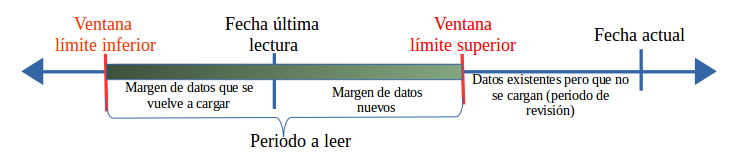
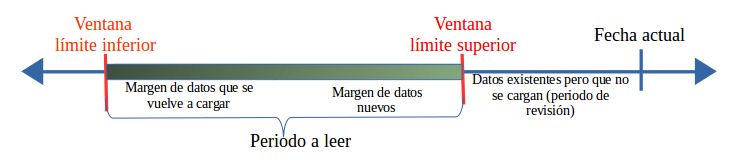
Cambios en la carga incremental

Changed region(s): [[0.2786, 0.0938, 0.4334, 0.1875], [0.3096, 0.25, 0.4024, 0.4062], [0.3405, 0.5, 0.3715, 0.6875]]

diff --git a/src/MINSAL/IndicadoresBundle/Command/CargarOrigenDatoCommand.php b/src/MINSAL/IndicadoresBundle/Command/CargarOrigenDatoCommand.php
@@ -69,7 +69,7 @@ class CargarOrigenDatoCommand extends ContainerAwareCommand
                             $campos_sig[$campo->getNombre()] = $campo->getSignificado()->getCodigo();
                         }
 
-                        //Verificar si elorigen de datos tiene un campo para lectura incremental
+                        //Verificar si el origen de datos tiene un campo para lectura incremental
                         $campoLecturaIncremental = $origenDato->getCampoLecturaIncremental();
                         $condicion_carga_incremental = "";
                         $ultimaLecturaIncremental = null;
@@ -80,28 +80,26 @@ class CargarOrigenDatoCommand extends ContainerAwareCommand
                         if ($esLecturaIncremental){
                             //tomar la fecha de la última actualización del origen
                             $campoLecturaIncremental = $campoLecturaIncremental->getSignificado()->getCodigo();
-                            $ultimaLecturaIncremental = $origenDato->getUltimaActualizacion();
-                            if ($ultimaLecturaIncremental != null ){
-                               //Ya se realizó al menos una carga, a partir de la segunda leer solo el incremento
-                                $ventana_inf = ($origenDato->getVentanaLimiteInferior() == null) ? 0 : $origenDato->getVentanaLimiteInferior();
-                                $ventana_sup = ($origenDato->getVentanaLimiteSuperior() == null) ? 0 : $origenDato->getVentanaLimiteSuperior();
+                            
+                            //Calcular los límites
+                            $ventana_inf = ($origenDato->getVentanaLimiteInferior() == null) ? 0 : $origenDato->getVentanaLimiteInferior();
+                            $ventana_sup = ($origenDato->getVentanaLimiteSuperior() == null) ? 0 : $origenDato->getVentanaLimiteSuperior();
 
-                                if ($campoLecturaIncremental == 'fecha'){                
-                                    $ultimaLecturaIncremental->sub(new \DateInterval('P'.$ventana_inf.'D'));
-                                    $fecha->sub(new \DateInterval('P'.$ventana_sup.'D'));
-                                    $lim_inf= $ultimaLecturaIncremental->format('Y-m-d H:i:s');
-                                    $lim_sup = $fecha->format('Y-m-d H:i:s');
+                            if ($campoLecturaIncremental == 'fecha'){                
+                                $fechaIni = $fecha;
+                                $fechaFin = $fecha;
 
-                                } else {
-                                    // Se está utilizando el campo año para la carga incremental
-                                    $lim_inf = $ultimaLecturaIncremental->format('Y') - $ventana_inf ;
-                                    $lim_sup = $fecha->format('Y') - $ventana_sup;
-                                }
-                                $condicion_carga_incremental = " AND $campoLecturaIncremental >= '$lim_inf'
-                                                                     AND $campoLecturaIncremental <= '$lim_sup' ";
+                                $lim_inf = $fechaIni->sub(new \DateInterval('P'.$ventana_inf.'D'))->format('Y-m-d H:i:s');
+                                $lim_sup = $fechaFin->sub(new \DateInterval('P'.$ventana_sup.'D'))->format('Y-m-d H:i:s');
+                            } else {
+                                // Se está utilizando el campo año para la carga incremental
+                                $lim_inf = $fecha->format('Y') - $ventana_inf ;
+                                $lim_sup = $fecha->format('Y') - $ventana_sup;
                             }
+                            $condicion_carga_incremental = " AND $campoLecturaIncremental >= '$lim_inf'
+                                                                 AND $campoLecturaIncremental <= '$lim_sup' ";
+                            
                             $orden = " ORDER BY $campoLecturaIncremental ";
-                            $ultimaLecturaIncremental = $ultimaLecturaIncremental->format('Y-m-d H:i:s');
                         }
                         $msg = array('id_origen_dato' => $origenDato->getId(), 
                                     'sql' => $origenDato->getSentenciaSql(),
@@ -112,11 +110,16 @@ class CargarOrigenDatoCommand extends ContainerAwareCommand
                                     'orden' => $orden,
                                     'esLecturaIncremental' => $esLecturaIncremental,
                                     'campoLecturaIncremental' => $campoLecturaIncremental,
-                                    'ultimaLecturaIncremental' => $ultimaLecturaIncremental,
                                     'r' => microtime(true) 
 
                             );                                        
-
+                        
+                        foreach ($origenDato->getVariables() as $var) {
+                            foreach ($var->getIndicadores() as $ind) {
+                                $ind->setUltimaLectura($ahora);
+                            }
+                        }
+                        $em->flush();
                         $carga_directa = $origenDato->getEsCatalogo();
                         // No mandar a la cola de carga los que son catálogos, Se cargarán directamente
                         if ($carga_directa)

diff --git a/src/MINSAL/IndicadoresBundle/Controller/OrigenDatosAdminController.php b/src/MINSAL/IndicadoresBundle/Controller/OrigenDatosAdminController.php
@@ -165,28 +165,28 @@ class OrigenDatosAdminController extends Controller
             if ($esLecturaIncremental){
                 //tomar la fecha de la última actualización del origen
                 $campoLecturaIncremental = $campoLecturaIncremental->getSignificado()->getCodigo();
-                $ultimaLecturaIncremental = $origenDato->getUltimaActualizacion();
-                if ($ultimaLecturaIncremental != null ){
-                   //Ya se realizó al menos una carga, a partir de la segunda leer solo el incremento
-                    $ventana_inf = ($origenDato->getVentanaLimiteInferior() == null) ? 0 : $origenDato->getVentanaLimiteInferior();
-                    $ventana_sup = ($origenDato->getVentanaLimiteSuperior() == null) ? 0 : $origenDato->getVentanaLimiteSuperior();
 
-                    if ($campoLecturaIncremental == 'fecha'){                
-                        $ultimaLecturaIncremental->sub(new \DateInterval('P'.$ventana_inf.'D'));
-                        $fecha->sub(new \DateInterval('P'.$ventana_sup.'D'));
-                        $lim_inf= $ultimaLecturaIncremental->format('Y-m-d H:i:s');
-                        $lim_sup = $fecha->format('Y-m-d H:i:s');
+                //Calcular los límites
+                $ventana_inf = ($origenDato->getVentanaLimiteInferior() == null) ? 0 : $origenDato->getVentanaLimiteInferior();
+                $ventana_sup = ($origenDato->getVentanaLimiteSuperior() == null) ? 0 : $origenDato->getVentanaLimiteSuperior();
 
-                    } else {
-                        // Se está utilizando el campo año para la carga incremental
-                        $lim_inf = $ultimaLecturaIncremental->format('Y') - $ventana_inf ;
-                        $lim_sup = $fecha->format('Y') - $ventana_sup;
-                    }
-                    $condicion_carga_incremental = " AND $campoLecturaIncremental >= '$lim_inf'
-                                                         AND $campoLecturaIncremental <= '$lim_sup' ";
+                if ($campoLecturaIncremental == 'fecha'){                
+                    $fechaIni = $fecha;
+                    $fechaFin = $fecha;
+                    
+                    $lim_inf = $fechaIni->sub(new \DateInterval('P'.$ventana_inf.'D'))->format('Y-m-d H:i:s');
+                    $lim_sup = $fechaFin->sub(new \DateInterval('P'.$ventana_sup.'D'))->format('Y-m-d H:i:s');
+
+                } else {
+                    // Se está utilizando el campo año para la carga incremental
+                    $lim_inf = $fecha->format('Y') - $ventana_inf ;
+                    $lim_sup = $fecha->format('Y') - $ventana_sup;
                 }
+                $condicion_carga_incremental = " AND $campoLecturaIncremental >= '$lim_inf'
+                                                     AND $campoLecturaIncremental <= '$lim_sup' ";
+
                 $orden = " ORDER BY $campoLecturaIncremental ";
-                $ultimaLecturaIncremental = $ultimaLecturaIncremental->format('Y-m-d H:i:s');
+                
             }
             $msg = array('id_origen_dato' => $origen, 
                         'sql' => $origenDato->getSentenciaSql(),
@@ -197,7 +197,6 @@ class OrigenDatosAdminController extends Controller
                         'orden' => $orden,
                         'esLecturaIncremental' => $esLecturaIncremental,
                         'campoLecturaIncremental' => $campoLecturaIncremental,
-                        'ultimaLecturaIncremental' => $ultimaLecturaIncremental,
                         'r' => microtime(true)
                     
                 );

diff --git a/src/MINSAL/IndicadoresBundle/Consumer/CargarOrigenDatoConsumer.php b/src/MINSAL/IndicadoresBundle/Consumer/CargarOrigenDatoConsumer.php
@@ -88,6 +88,7 @@ Conexion '.$cnx.' '.microtime(true).' Origen: '.$idOrigen.'
                                 +++++++++++++++++++++++++++++++++++++++++++++++++++++++++++++++
                                 ---> Lectura de datos '. $lect . ' iniciada en '. microtime(true) . ' Origen: '.$idOrigen.' 
                         ';
+                    var_dump($msg['esLecturaIncremental']);
                     $datos = $em->getRepository('IndicadoresBundle:OrigenDatos')->getDatos($sql_aux, $cnx);
                     
                     echo '     
@@ -127,7 +128,6 @@ Conexion '.$cnx.' '.microtime(true).' Origen: '.$idOrigen.'
             'es_lectura_incremental' => $msg['esLecturaIncremental'],
             'lim_inf' => $msg['lim_inf'],
             'lim_sup' => $msg['lim_sup'],
-            'ultima_lectura_incremental' => $msg['ultimaLecturaIncremental'],
             'campo_lectura_incremental' => $msg['campoLecturaIncremental'],
             'r' => microtime(true),
             'numMsj' => $this->numMsj++

diff --git a/app/Resources/doc/manual-administracion/Contents/etl.md b/app/Resources/doc/manual-administracion/Contents/etl.md
@@ -42,8 +42,8 @@ Por defecto cada vez que se lee un origen de datos se hace una lectura completa,
 
 Para configurar la carga incremental tiene que especificar tres opciones:
 - El campo que se usará como punto de control de la carga incremental, debe ser un campo de tipo fecha o año. Especificando este campo, al realizar una segunda lectura, se determinará el último valor leido y se recuperarán los valores mayores a éste. Si quiere modificar este comportamiento debe utilizar las siguientes dos opciones: **Ventana límite inferior** y **Ventana límite superior**
-- Ventana límite inferior, representa el número de unidades (días si el campo de control es fecha o años para campo de control años) que se volverán a leer. Por ejemplo: si la última lectura fue el *13/02/2014* y el límite inferior es *3* se leerá a partir de *10/02/2014*
-- Ventana límite superior, este controla el número de unidades que se descontarán de la fecha actual, para realizar la lectura. Por ejemplo: si la fecha actual es *15/09/2015* y el límite superior es *5*, no se leerán los datos hasta la fecha actual sino 5 días antes, es decir hasta *10/09/2015*
+- Ventana límite inferior, representa el número de unidades (días si el campo de control es fecha o años para campo de control años) que se volverán a leer a partir de la fecha actual. Por ejemplo: si la fecha actual es *13/02/2016* y el límite inferior es *3* se leerá a partir de *10/02/2016*
+- Ventana límite superior, este controla el número de unidades que se descontarán de la fecha actual, para realizar la lectura. Por ejemplo: si la fecha actual es *15/09/2016* y el límite superior es *5*, no se leerán los datos hasta la fecha actual sino 5 días antes, es decir hasta *10/09/2016*
 
 
 ### Carga de tablas catálogos
